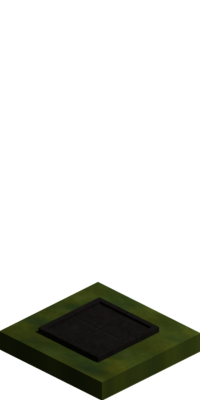
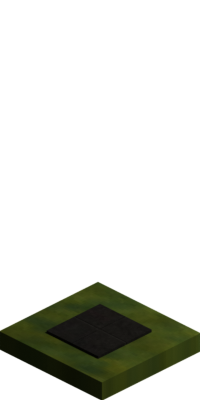
Roads done except for 4 way

Changed region(s): [[0.18, 0.72, 0.81, 0.93]]

diff --git a/Assets/Tiled/Tileset.tsx b/Assets/Tiled/Tileset.tsx
@@ -159,13 +159,57 @@
    <property name="CREDITS" value="50"/>
    <property name="METAL" value="5"/>
    <property name="onTileName" value="[sand, grass, iron, oil]"/>
+   <property name="name" value="roadtile1100"/>
+   <property name="type" value="road"/>
+   <property name="description" value="A basic road"/>
+  </properties>
+  <image width="200" height="400" source="roadtile1100.png"/>
+ </tile>
+ <tile id="98">
+  <properties>
+   <property name="CREDITS" value="50"/>
+   <property name="METAL" value="5"/>
+   <property name="onTileName" value="[sand, grass, iron, oil]"/>
+   <property name="name" value="roadtile0110"/>
+   <property name="type" value="road"/>
+   <property name="description" value="A basic road"/>
+  </properties>
+  <image width="200" height="400" source="roadtile0110.png"/>
+ </tile>
+ <tile id="99">
+  <properties>
+   <property name="CREDITS" value="50"/>
+   <property name="METAL" value="5"/>
+   <property name="onTileName" value="[sand, grass, iron, oil]"/>
+   <property name="name" value="roadtile0011"/>
+   <property name="type" value="road"/>
+   <property name="description" value="A basic road"/>
+  </properties>
+  <image width="200" height="400" source="roadtile0011.png"/>
+ </tile>
+ <tile id="100">
+  <properties>
+   <property name="CREDITS" value="50"/>
+   <property name="METAL" value="5"/>
+   <property name="onTileName" value="[sand, grass, iron, oil]"/>
+   <property name="name" value="roadtile1001"/>
+   <property name="type" value="road"/>
+   <property name="description" value="A basic road"/>
+  </properties>
+  <image width="200" height="400" source="roadtile1001.png"/>
+ </tile>
+ <tile id="101">
+  <properties>
+   <property name="CREDITS" value="50"/>
+   <property name="METAL" value="5"/>
+   <property name="onTileName" value="[sand, grass, iron, oil]"/>
    <property name="name" value="roadtile1110"/>
    <property name="type" value="road"/>
    <property name="description" value="A basic road"/>
   </properties>
   <image width="200" height="400" source="roadtile1110.png"/>
  </tile>
- <tile id="98">
+ <tile id="102">
   <properties>
    <property name="CREDITS" value="50"/>
    <property name="METAL" value="5"/>
@@ -176,7 +220,7 @@
   </properties>
   <image width="200" height="400" source="roadtile0111.png"/>
  </tile>
- <tile id="99">
+ <tile id="103">
   <properties>
    <property name="CREDITS" value="50"/>
    <property name="METAL" value="5"/>
@@ -187,7 +231,7 @@
   </properties>
   <image width="200" height="400" source="roadtile1011.png"/>
  </tile>
- <tile id="100">
+ <tile id="104">
   <properties>
    <property name="CREDITS" value="50"/>
    <property name="METAL" value="5"/>
@@ -198,7 +242,7 @@
   </properties>
   <image width="200" height="400" source="roadtile1101.png"/>
  </tile>
- <tile id="101">
+ <tile id="105">
   <properties>
    <property name="CREDITS" value="50"/>
    <property name="METAL" value="5"/>
